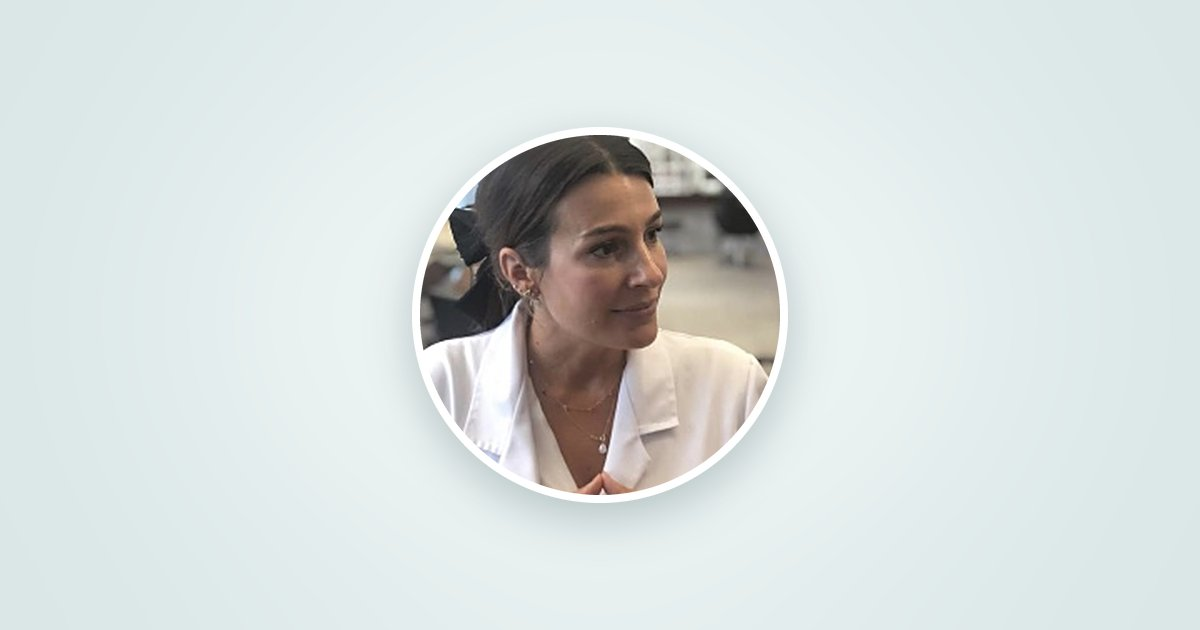
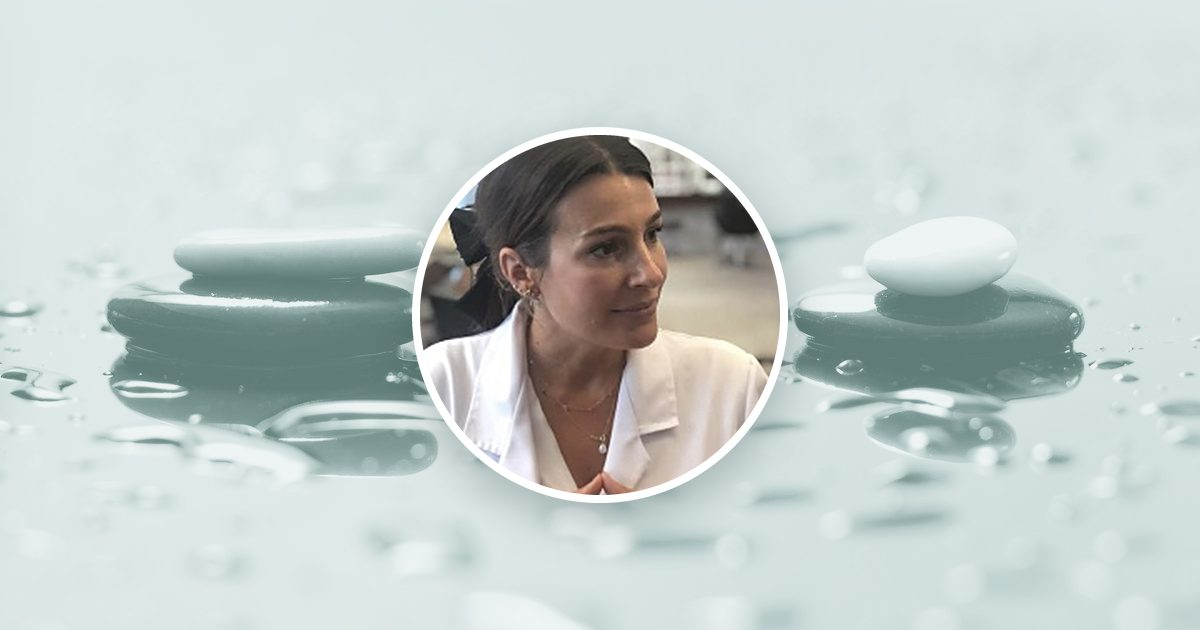
Vista previa con las piedras de fondo en un solo tono verde agua grisáceo

diff --git a/index.html b/index.html
@@ -20,7 +20,7 @@
 <meta property="og:image:type" content="image/jpeg">
 <meta property="og:image:width" content="1200">
 <meta property="og:image:height" content="630">
-<meta property="og:image:alt" content="Foto de Sandra Bustamante sobre fondo verde agua">
+<meta property="og:image:alt" content="Foto de Sandra Bustamante sobre piedras en el agua en tono verde agua">
 <meta name="twitter:card" content="summary_large_image">
 <meta name="twitter:title" content="Sandra Bustamante · Directora de formación de Solentine">
 <meta name="twitter:description" content="Formadora y especialista en tratamientos faciales y corporales.">
